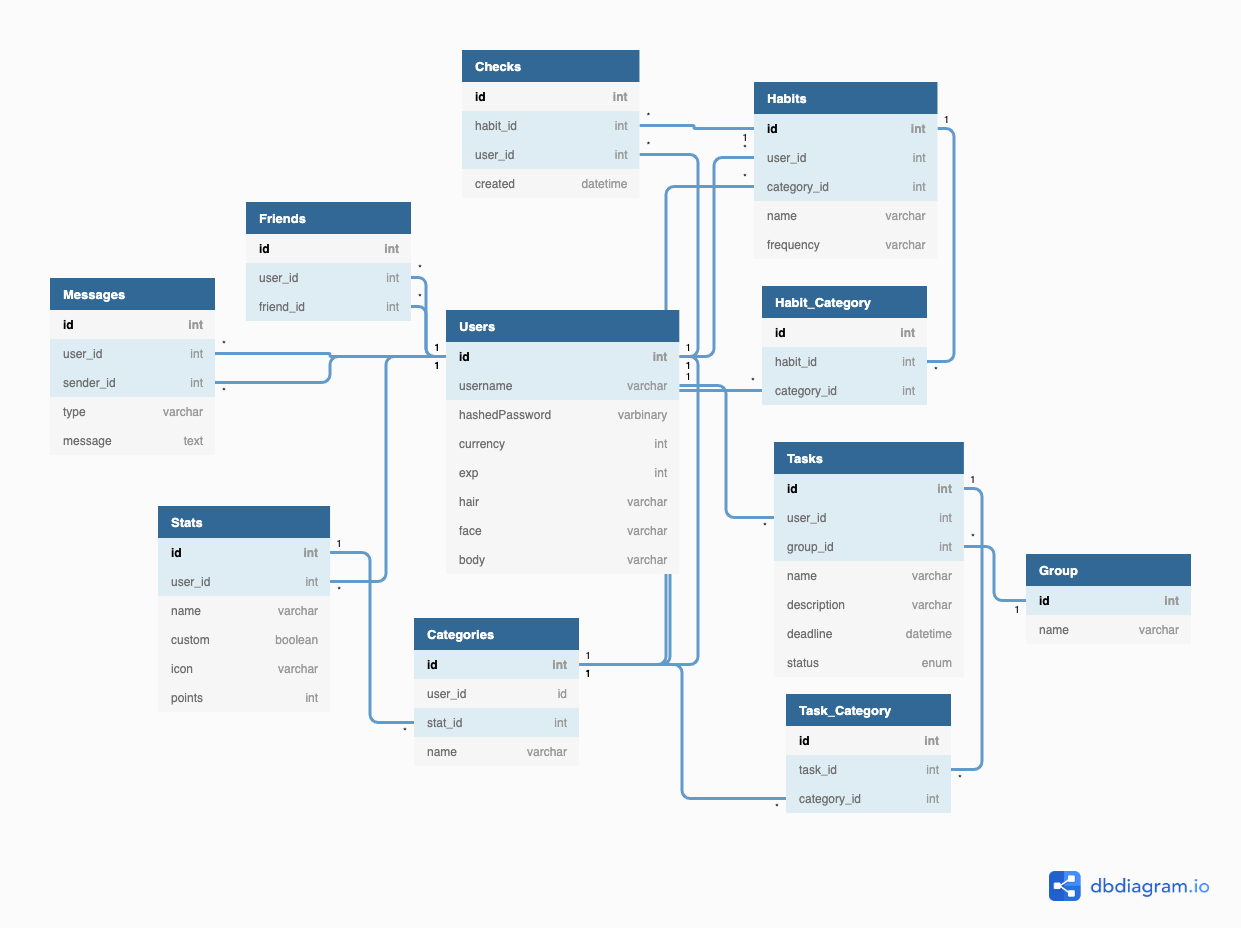
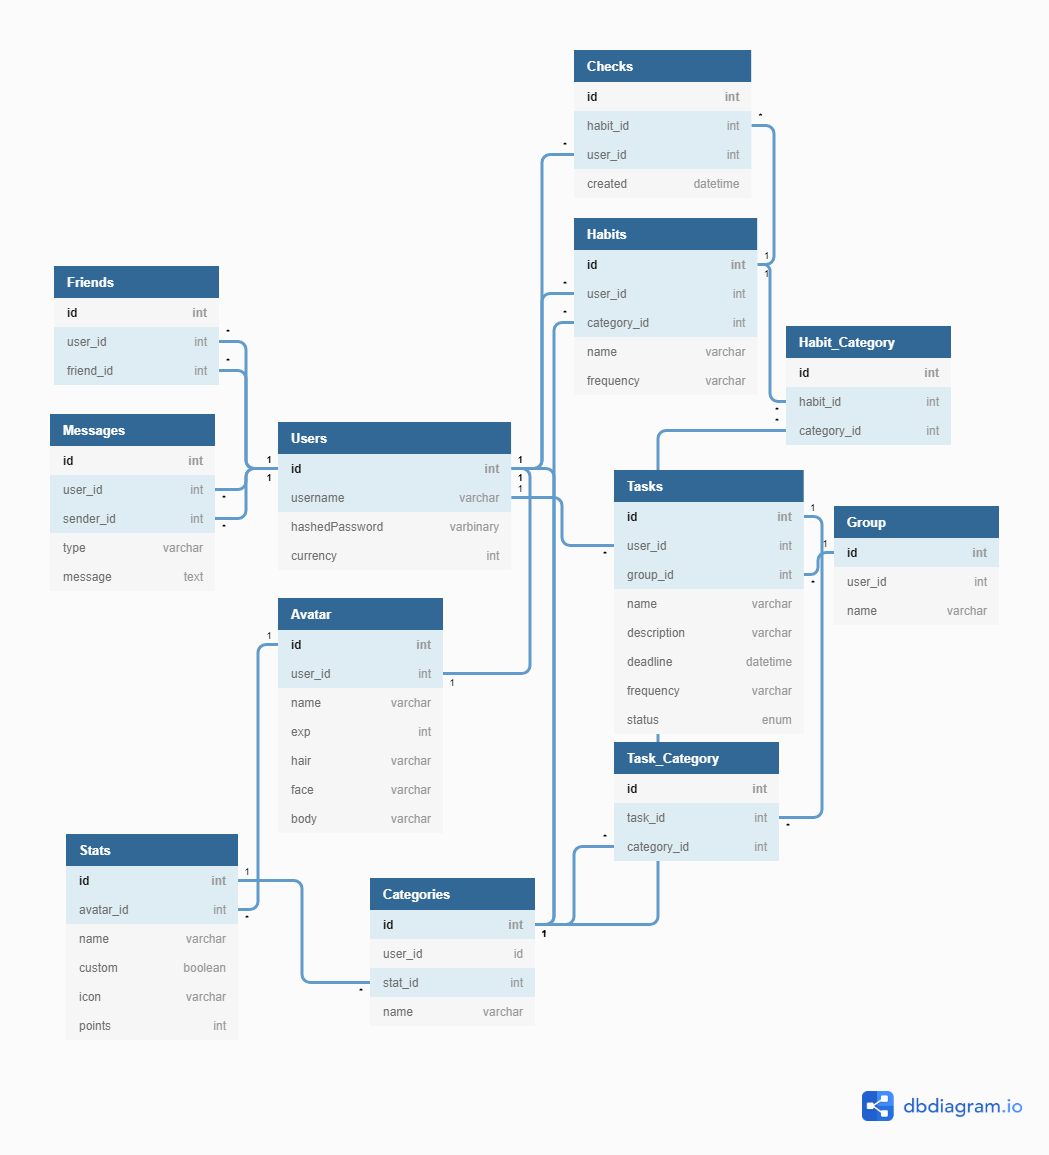
Abstracted User Table, Added Additional Seeders

Changed region(s): [[0.0305, 0.0312, 0.9762, 0.875], [0.8236, 0.9375, 0.9762, 0.9688]]

diff --git a/app/seeds/avatars.py b/app/seeds/avatars.py
@@ -1,0 +1,26 @@
+from werkzeug.security import generate_password_hash
+from app.models import db, Avatar
+
+
+# Adds a demo user, you can add other users here if you want
+def seed_avatars():
+
+    avatarObjects = [
+        Avatar(user_id=1, name='spookychu', exp=100,
+               hair="pink", face="type-1", body="type-1"),
+        Avatar(user_id=2, name='sirBerber', exp=100,
+               hair="brown", face="type-2", body="type-2"),
+        Avatar(user_id=3, name='momatomimumu', exp=100,
+               hair="black", face="type-3", body="type-3"),]
+
+    db.session.bulk_save_objects(avatarObjects)
+    db.session.commit()
+
+
+# Uses a raw SQL query to TRUNCATE the users table.
+# SQLAlchemy doesn't have a built in function to do this
+# TRUNCATE Removes all the data from the table, and resets
+# the auto incrementing primary key
+def undo_avatars():
+    db.session.execute('TRUNCATE users;')
+    db.session.commit()

diff --git a/app/seeds/users.py b/app/seeds/users.py
@@ -7,14 +7,11 @@ def seed_users():
 
     userObjects = [
         User(username='Admin', email='admin@aa.io',
-             password='password', currency=1000, exp=100,
-             hair="pink", face="type-1", body="type-1"),
+             password='password', currency=1000),
         User(username='Berber', email='berber@catmail.com',
-             password='password', currency=1000, exp=100,
-             hair="brown", face="type-2", body="type-2"),
+             password='password', currency=1000),
         User(username='Wahlu', email='wahlu@canada.net',
-             password='password', currency=1000, exp=100,
-             hair="black", face="type-3", body="type-3")]
+             password='password', currency=1000)]
 
     db.session.bulk_save_objects(userObjects)
     db.session.commit()

diff --git a/app/models/user.py b/app/models/user.py
@@ -11,14 +11,6 @@ class User(db.Model, UserMixin):
     email = c(db.String(255), nullable=False, unique=True)
     hashed_password = c(db.String(255), nullable=False)
     currency = c(db.Integer, nullable=False)
-    exp = c(db.Integer, nullable=False)
-    hair = c(db.String(50), nullable=False)
-    face = c(db.String(50), nullable=False)
-    body = c(db.String(50), nullable=False)
-    helmet = c(db.String(50), nullable=True)
-    top = c(db.String(50), nullable=True)
-    bottom = c(db.String(50), nullable=True)
-    stats = db.relationship('Stat', backref="user", lazy=True)
     categories = db.relationship('Category', backref="user", lazy=True)
     checks = db.relationship('Check', backref="user", lazy=True)
     groups = db.relationship('Group', backref="user", lazy=True)

diff --git a/app/models/avatar.py b/app/models/avatar.py
@@ -6,6 +6,12 @@ class Avatar(db.Model):
 
     id = c(db.Integer, primary_key=True)
     user_id = c(db.Integer, db.ForeignKey('users.id'), nullable=False)
-    stat_id = c(db.Integer, db.ForeignKey('stats.id'), nullable=True)
     name = c(db.String(50), nullable=False)
-    habits = db.relationship('Habit', backref="category", lazy=True)
+    exp = c(db.Integer, nullable=False)
+    hair = c(db.String(50), nullable=False)
+    face = c(db.String(50), nullable=False)
+    body = c(db.String(50), nullable=False)
+    helmet = c(db.String(50), nullable=True)
+    top = c(db.String(50), nullable=True)
+    bottom = c(db.String(50), nullable=True)
+    stats = db.relationship('Stat', backref="user", lazy=True)

diff --git a/app/seeds/__init__.py b/app/seeds/__init__.py
@@ -1,5 +1,6 @@
 from flask.cli import AppGroup
 from .users import seed_users, undo_users
+from .avatars import seed_avatars, undo_avatars
 
 # Creates a seed group to hold our commands
 # So we can type `flask seed --help`
@@ -9,10 +10,12 @@ seed_commands = AppGroup('seed')
 @seed_commands.command('all')
 def seed():
     seed_users()
+    seed_avatars()
     # Add other seed functions here
 
 # Creates the `flask seed undo` command
 @seed_commands.command('undo')
 def undo():
     undo_users()
+    undo_avatars()
     # Add other undo functions here

diff --git a/app/models/stat.py b/app/models/stat.py
@@ -4,7 +4,7 @@ class Stat(db.Model):
   __tablename__ = "stats"
 
   id = c(db.Integer, primary_key = True)
-  user_id = c(db.Integer, db.ForeignKey('users.id'), nullable=False)
+  avatar_id = c(db.Integer, db.ForeignKey('avatars.id'), nullable=False)
   name = c(db.String(50), nullable = False)
   custom = c(db.Boolean, nullable = False)
   icon = c(db.String(50), nullable = False)
